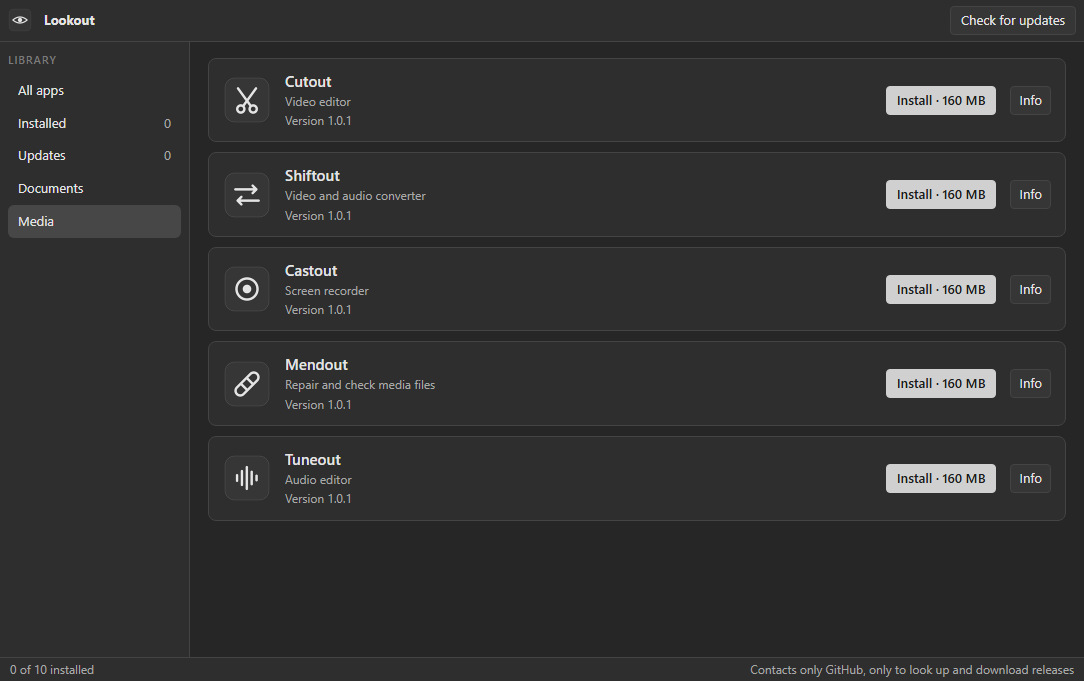
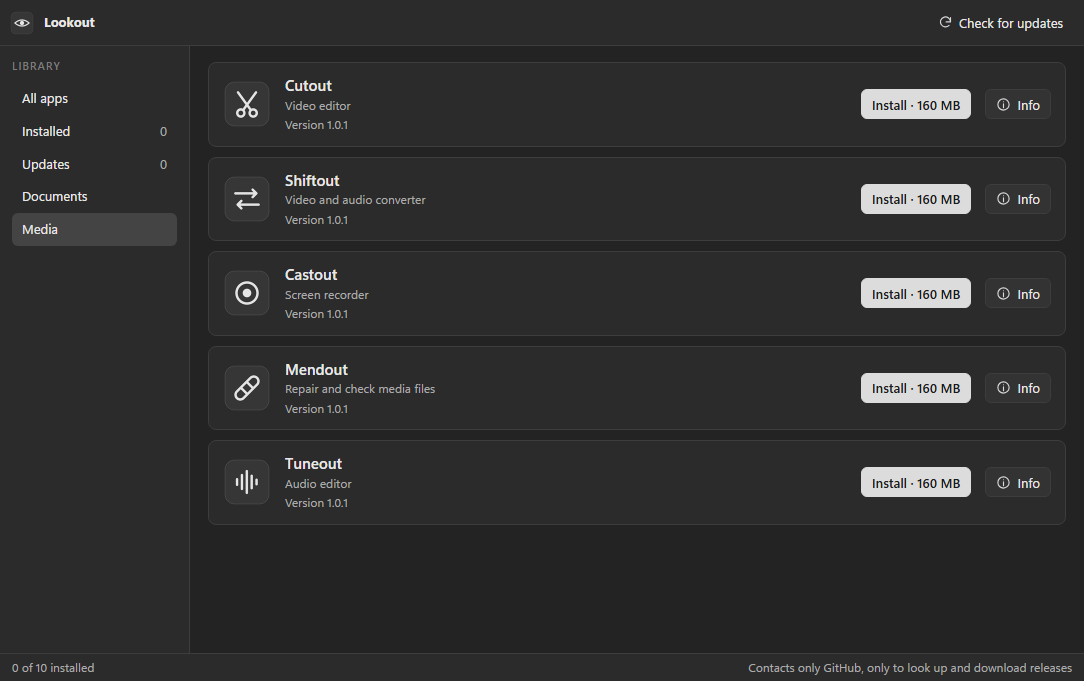
Lookout 1.0.1: refreshed interface
Refreshed interface: line icons on every toolbar button, the app mark in the top bar, consistent control sizes and spacing, tidier side panels, and a toolbar that adapts to smaller windows. Also includes layout fixes and a fuller guide on the project page.

diff --git a/renderer/lookout.css b/renderer/lookout.css
@@ -1,62 +1,119 @@
-/* Lookout gray UI kit: flat, no glow, no gradients, no hue. */
+/* Lookout gray UI kit v2: flat, calm, no hue. Shared by every Lookout app. */
 :root{
-  --bg:#262626; --bg-2:#2e2e2e; --bg-3:#363636; --line:#444; --line-2:#555;
-  --text:#e4e4e4; --text-2:#a8a8a8; --text-3:#7c7c7c;
-  --accent:#d0d0d0; --accent-ink:#1c1c1c; --focus:#9a9a9a;
-  --radius:4px; --font:"Segoe UI",system-ui,-apple-system,sans-serif; --mono:Consolas,"Cascadia Mono",monospace;
+  --bg:#232323; --bg-2:#2b2b2b; --bg-3:#333333; --bg-4:#3b3b3b; --stage:#1c1c1c;
+  --line:#3d3d3d; --line-2:#4d4d4d; --line-3:#5c5c5c;
+  --text:#e8e8e8; --text-2:#ababab; --text-3:#7d7d7d;
+  --accent:#dcdcdc; --accent-ink:#1b1b1b; --focus:#a0a0a0;
+  --radius:6px; --h:30px;
+  --font:"Segoe UI Variable Text","Segoe UI",system-ui,-apple-system,sans-serif; --mono:Consolas,"Cascadia Mono",monospace;
 }
 *{box-sizing:border-box;margin:0;padding:0}
 html,body{height:100%;background:var(--bg);color:var(--text);font:13px/1.45 var(--font);overflow:hidden;user-select:none;-webkit-font-smoothing:antialiased}
 button,input,select,textarea{font:inherit;color:inherit}
 .app{display:grid;grid-template-rows:auto 1fr auto;height:100vh}
-.toolbar{display:flex;align-items:center;gap:4px;padding:6px 8px;background:var(--bg-2);border-bottom:1px solid var(--line);flex-wrap:wrap}
-.toolbar .sep{width:1px;align-self:stretch;background:var(--line);margin:2px 6px}
-.toolbar .grow{flex:1}
-.btn{background:var(--bg-3);border:1px solid var(--line);border-radius:var(--radius);padding:4px 10px;cursor:pointer;white-space:nowrap}
-.btn:hover{background:#404040;border-color:var(--line-2)}
+
+/* ---------- toolbar ---------- */
+.toolbar{display:flex;align-items:center;gap:2px;padding:7px 10px;min-height:46px;background:var(--bg-2);border-bottom:1px solid var(--line);flex-wrap:nowrap;overflow-x:auto;overflow-y:hidden;scrollbar-width:none}
+.toolbar::-webkit-scrollbar{height:0}
+.toolbar>*{flex-shrink:0}
+.toolbar .sep{width:1px;height:20px;align-self:center;background:var(--line-2);margin:0 6px}
+.toolbar .grow{flex:1 1 auto;min-width:8px}
+.toolbar input[type=text],.toolbar input[type=search]{width:170px}
+.brand{display:flex;align-items:center;gap:8px;padding-right:6px;margin-right:4px;font-weight:600;font-size:13px;color:var(--text)}
+.brand img{width:24px;height:24px;border-radius:6px;display:block}
+.brand+.sep{margin-left:0}
+
+/* ---------- buttons ---------- */
+.btn{display:inline-flex;align-items:center;justify-content:center;gap:6px;height:var(--h);padding:0 10px;background:var(--bg-3);border:1px solid var(--line);border-radius:var(--radius);cursor:pointer;white-space:nowrap;line-height:1;transition:background .08s,border-color .08s}
+.btn:hover{background:var(--bg-4);border-color:var(--line-2)}
 .btn:active{background:#2a2a2a}
-.btn:focus-visible,input:focus-visible,select:focus-visible,textarea:focus-visible,[tabindex]:focus-visible{outline:1px solid var(--focus);outline-offset:1px}
+.btn:focus-visible,input:focus-visible,select:focus-visible,textarea:focus-visible,[tabindex]:focus-visible{outline:2px solid var(--focus);outline-offset:1px}
 .btn.primary{background:var(--accent);color:var(--accent-ink);border-color:var(--accent);font-weight:600}
-.btn.primary:hover{background:#e0e0e0}
-.btn.on{background:#4a4a4a;border-color:var(--line-2)}
-.btn[disabled]{opacity:.4;pointer-events:none}
-.btn.icon{padding:4px 8px;min-width:30px;text-align:center}
-input[type=text],input[type=number],input[type=search],select,textarea{background:var(--bg);border:1px solid var(--line);border-radius:var(--radius);padding:4px 8px;user-select:text}
-input[type=range]{accent-color:#bdbdbd}
-input[type=color]{border:1px solid var(--line);background:var(--bg);width:28px;height:24px;padding:1px;border-radius:var(--radius)}
-label.field{display:flex;flex-direction:column;gap:3px;color:var(--text-2);font-size:12px}
-.main{display:flex;min-height:0}
-.sidebar{width:220px;background:var(--bg-2);border-right:1px solid var(--line);overflow:auto;padding:8px;flex-shrink:0}
-.sidebar.right{border-right:0;border-left:1px solid var(--line);width:250px}
-.sidebar h3,.panel-title{font-size:11px;text-transform:uppercase;letter-spacing:.08em;color:var(--text-3);margin:10px 0 6px;font-weight:600}
+.btn.primary:hover{background:#ececec;border-color:#ececec}
+.btn.on{background:#4a4a4a;border-color:var(--line-3);box-shadow:inset 0 0 0 1px #6a6a6a}
+.btn[disabled]{opacity:.38;pointer-events:none}
+.btn.icon{padding:0;width:var(--h);min-width:var(--h)}
+.btn .ic{width:15px;height:15px;flex-shrink:0;display:block;opacity:.92}
+.toolbar .btn:not(.primary):not(.on){background:transparent;border-color:transparent}
+.toolbar .btn:not(.primary):not(.on):hover{background:var(--bg-4);border-color:var(--line-2)}
+
+.toolbar.c1 .btn.minor:not(.primary):has(> svg.ic),.toolbar.c2 .btn:not(.primary):has(> svg.ic),.toolbar.c3 .btn:has(> svg.ic){font-size:0;gap:0;width:var(--h);padding:0}
+.toolbar.c2 .brand span{display:none}
+.toolbar.c2 input[type=text],.toolbar.c2 input[type=search]{width:120px}
+
+/* ---------- fields ---------- */
+input[type=text],input[type=number],input[type=search],input[type=date],select,textarea{background:var(--bg);border:1px solid var(--line-2);border-radius:var(--radius);padding:0 9px;height:var(--h);user-select:text;min-width:0}
+textarea{height:auto;padding:7px 9px;resize:vertical;line-height:1.45}
+select{padding-right:6px;cursor:pointer}
+input:hover,select:hover,textarea:hover{border-color:var(--line-3)}
+input[type=range]{accent-color:#c8c8c8;height:var(--h)}
+input[type=checkbox]{accent-color:#c8c8c8;width:15px;height:15px;cursor:pointer}
+input[type=color]{border:1px solid var(--line-2);background:var(--bg);width:30px;height:var(--h);padding:2px;border-radius:var(--radius)}
+label.field{display:flex;flex-direction:column;gap:4px;color:var(--text-2);font-size:12px}
+label.field>input,label.field>select,label.field>textarea{width:100%;color:var(--text);font-size:13px}
+
+/* ---------- layout ---------- */
+.main{display:flex;min-height:0;min-width:0}
+.sidebar{width:228px;background:var(--bg-2);border-right:1px solid var(--line);overflow:auto;padding:10px 12px 14px;flex-shrink:0}
+.sidebar.right{border-right:0;border-left:1px solid var(--line);width:272px}
+.sidebar h3,.panel-title{font-size:11px;text-transform:uppercase;letter-spacing:.08em;color:var(--text-3);margin:16px 0 8px;font-weight:600}
 .sidebar h3:first-child{margin-top:2px}
-.stage{flex:1;min-width:0;min-height:0;position:relative;background:#1f1f1f;overflow:auto}
-.status{display:flex;gap:16px;align-items:center;padding:3px 10px;background:var(--bg-2);border-top:1px solid var(--line);color:var(--text-2);font-size:12px}
+.sidebar input[type=text],.sidebar input[type=search],.sidebar select,.sidebar textarea{width:100%}
+.sidebar .row{flex-wrap:wrap}
+.sidebar .row>.btn{flex:1 1 auto}
+.sidebar .row>label.field{flex:1 1 0;min-width:0}
+.sidebar label.field{margin-bottom:10px}
+.sidebar .btn{width:auto}
+.sidebar>.btn{width:100%;margin-bottom:6px}
+.stage{flex:1;min-width:0;min-height:0;position:relative;background:var(--stage);overflow:auto}
+.status{display:flex;gap:18px;align-items:center;height:28px;padding:0 12px;background:var(--bg-2);border-top:1px solid var(--line);color:var(--text-2);font-size:12px;white-space:nowrap;overflow:hidden}
 .status .grow{flex:1}
 .list{display:flex;flex-direction:column;gap:2px}
-.list .item{padding:5px 8px;border-radius:var(--radius);cursor:pointer;border:1px solid transparent;display:flex;gap:6px;align-items:center}
+.list .item{padding:6px 8px;border-radius:var(--radius);cursor:pointer;border:1px solid transparent;display:flex;gap:6px;align-items:center;min-height:30px}
 .list .item:hover{background:var(--bg-3)}
-.list .item.sel{background:#444;border-color:var(--line-2)}
+.list .item.sel{background:var(--bg-4);border-color:var(--line-2)}
 .row{display:flex;gap:6px;align-items:center}
+.grow{flex:1 1 auto;min-width:0}
+.brow{display:grid;grid-template-columns:1fr 1fr;gap:6px;margin-bottom:6px}
+.brow>.btn{justify-content:flex-start}
+.frow{display:flex;align-items:center;gap:8px;margin-bottom:8px;color:var(--text-2)}
+.frow>input[type=text],.frow>input[type=number]{flex:1;color:var(--text)}
+.frow>span:first-child{min-width:44px}
+.frow>select{flex:1;min-width:0}
+.sidebar input[type=range]{width:100%}
+.sidebar .swatches{margin-bottom:10px}
+.list .item .btn{height:24px!important;width:26px!important;padding:0!important;font-size:0!important;gap:0;background:transparent;border-color:transparent;opacity:.55}
+.list .item:hover .btn,.list .item.sel .btn{opacity:1}
+.list .item .btn:hover{background:var(--bg-4);border-color:var(--line-2)}
 .col{display:flex;flex-direction:column;gap:6px}
 .muted{color:var(--text-2)}
-.empty{position:absolute;inset:0;display:flex;flex-direction:column;align-items:center;justify-content:center;gap:10px;color:var(--text-3);text-align:center;padding:20px}
-.empty .big{font-size:18px;color:var(--text-2)}
-.modal-back{position:fixed;inset:0;background:rgba(0,0,0,.55);display:flex;align-items:center;justify-content:center;z-index:50}
-.modal{background:var(--bg-2);border:1px solid var(--line-2);border-radius:6px;min-width:340px;max-width:80vw;max-height:85vh;overflow:auto;padding:16px;display:flex;flex-direction:column;gap:12px}
-.modal h2{font-size:15px;font-weight:600}
-.toast{position:fixed;left:50%;bottom:34px;transform:translateX(-50%);background:var(--bg-3);border:1px solid var(--line-2);padding:7px 14px;border-radius:var(--radius);z-index:60}
-.progress{height:6px;background:var(--bg);border:1px solid var(--line);border-radius:3px;overflow:hidden}
-.progress>i{display:block;height:100%;background:var(--accent);width:0}
-table.grid{border-collapse:collapse;width:100%}
-table.grid th,table.grid td{border:1px solid var(--line);padding:4px 8px;text-align:left}
-table.grid th{background:var(--bg-2);color:var(--text-2);font-weight:600}
-::-webkit-scrollbar{width:11px;height:11px}
-::-webkit-scrollbar-thumb{background:#4a4a4a;border:2px solid var(--bg);border-radius:6px}
-::-webkit-scrollbar-track{background:var(--bg)}
-.swatches{display:flex;flex-wrap:wrap;gap:4px}
-.swatches button{width:22px;height:22px;border:1px solid var(--line-2);border-radius:3px;cursor:pointer;padding:0}
-.swatches button.on{outline:2px solid var(--accent);outline-offset:1px}
-.progress>div{display:block;height:100%;background:var(--accent)}
-table.grid tr.sel td{background:#3a3a3a}
+.empty{position:absolute;inset:0;display:flex;flex-direction:column;align-items:center;justify-content:center;gap:12px;color:var(--text-3);text-align:center;padding:24px}
+.empty .big{font-size:18px;color:var(--text-2);font-weight:600}
+
+/* ---------- overlays ---------- */
+.modal-back{position:fixed;inset:0;background:rgba(0,0,0,.6);display:flex;align-items:center;justify-content:center;z-index:50}
+.modal{background:var(--bg-2);border:1px solid var(--line-2);border-radius:10px;min-width:360px;max-width:80vw;max-height:85vh;overflow:auto;padding:20px;display:flex;flex-direction:column;gap:14px;box-shadow:0 18px 50px rgba(0,0,0,.5)}
+.modal h2{font-size:16px;font-weight:600}
+.toast{position:fixed;left:50%;bottom:40px;transform:translateX(-50%);background:var(--bg-4);border:1px solid var(--line-3);padding:9px 16px;border-radius:8px;z-index:60;box-shadow:0 8px 24px rgba(0,0,0,.4)}
+.progress{height:6px;background:var(--bg);border:1px solid var(--line);border-radius:4px;overflow:hidden}
+.progress>i,.progress>div{display:block;height:100%;background:var(--accent);width:0}
+
+/* ---------- tables ---------- */
+table.grid{border-collapse:separate;border-spacing:0;width:100%}
+table.grid th,table.grid td{border-bottom:1px solid var(--line);padding:0 12px;height:38px;text-align:left;vertical-align:middle}
+table.grid th{background:var(--bg-2);color:var(--text-2);font-weight:600;font-size:12px;position:sticky;top:0;z-index:1;height:34px}
+table.grid tbody tr:hover td{background:#262626}
+table.grid tr.sel td{background:#353535}
 table.grid tbody tr{cursor:default}
+table.grid td .btn{height:26px;margin-left:8px;vertical-align:middle}
+table.grid td{white-space:nowrap}
+
+/* ---------- misc ---------- */
+::-webkit-scrollbar{width:11px;height:11px}
+::-webkit-scrollbar-thumb{background:#474747;border:3px solid transparent;background-clip:padding-box;border-radius:8px}
+::-webkit-scrollbar-thumb:hover{background:#5a5a5a;background-clip:padding-box;border:3px solid transparent}
+::-webkit-scrollbar-track,::-webkit-scrollbar-corner{background:transparent}
+.swatches{display:flex;flex-wrap:wrap;gap:6px}
+.swatches button{width:24px;height:24px;border:1px solid var(--line-3);border-radius:5px;cursor:pointer;padding:0}
+.swatches button.on{outline:2px solid var(--accent);outline-offset:2px}
+kbd{font-family:var(--mono);font-size:11px;background:var(--bg-3);border:1px solid var(--line-2);border-bottom-width:2px;border-radius:4px;padding:0 5px}

diff --git a/renderer/kit.js b/renderer/kit.js
@@ -1,0 +1,137 @@
+// Lookout UI kit: adds the app mark to the toolbar and monochrome line icons to buttons.
+// Purely visual. Buttons keep their text, so nothing else changes.
+(function () {
+  'use strict';
+  const NS = 'http://www.w3.org/2000/svg';
+  const P = {
+    plus: 'M12 5v14M5 12h14',
+    file: 'M14 3H6v18h12V7zM14 3v4h4M12 11v6M9 14h6',
+    folder: 'M3 7V5h6l2 2h10v12H3z',
+    save: 'M5 3h11l3 3v15H5zM8 3v5h7V3M8 21v-7h8v7',
+    saveas: 'M5 3h11l3 3v6M5 3v18h7M8 3v5h7V3M15 21l6-6-2-2-6 6v2z',
+    undo: 'M9 14L4 9l5-5M4 9h10a6 6 0 010 12h-3',
+    redo: 'M15 14l5-5-5-5M20 9H10a6 6 0 000 12h3',
+    trash: 'M4 7h16M10 11v6M14 11v6M6 7l1 14h10l1-14M9 7V4h6v3',
+    copy: 'M9 9h11v11H9zM5 15H4V4h11v1',
+    paste: 'M9 4h6v3H9zM8 5H5v16h14V5h-3',
+    dup: 'M8 8h12v12H8zM4 16V4h12M14 11v6M11 14h6',
+    download: 'M12 4v11M7 10l5 5 5-5M5 20h14',
+    fit: 'M4 9V4h5M15 4h5v5M20 15v5h-5M9 20H4v-5',
+    play: 'M7 4l13 8-13 8z',
+    stop: 'M6 6h12v12H6z',
+    pause: 'M7 5h3v14H7zM14 5h3v14h-3z',
+    rec: 'M12 5a7 7 0 100 14 7 7 0 000-14z',
+    scissors: 'M6 9a3 3 0 100-6 3 3 0 000 6zM6 21a3 3 0 100-6 3 3 0 000 6zM8.2 7.8L20 19M8.2 16.2L20 5',
+    pointer: 'M5 3l14 7-6 2-2 6z',
+    hand: 'M8 13V6a1.5 1.5 0 013 0v5M11 11V4.5a1.5 1.5 0 013 0V11M14 11V6a1.5 1.5 0 013 0v8a7 7 0 01-7 7 6 6 0 01-5-3l-2.5-4.5a1.5 1.5 0 012.6-1.5L8 15',
+    connector: 'M5 19L19 5M13 5h6v6',
+    frame: 'M7 3v18M17 3v18M3 7h18M3 17h18',
+    rect: 'M4 6h16v12H4z',
+    ellipse: 'M12 5c4.4 0 8 3.1 8 7s-3.6 7-8 7-8-3.1-8-7 3.6-7 8-7z',
+    line: 'M5 19L19 5',
+    text: 'M5 6V4h14v2M12 4v16M9 20h6',
+    highlight: 'M14 4l6 6-8 8H6v-6zM4 21h16',
+    pen: 'M4 20l4-1 11-11-3-3L5 16zM14 7l3 3',
+    redact: 'M4 8h16v8H4z',
+    sign: 'M3 17c3-6 5-9 7-9 3 0-2 9 1 9 2 0 3-3 5-3s1 3 5 3M3 21h18',
+    eraser: 'M8 20l-4-4 10-10 6 6-10 8zM12 20h8',
+    search: 'M11 4a7 7 0 100 14 7 7 0 000-14zM16 16l5 5',
+    list: 'M9 6h11M9 12h11M9 18h11M4 6h.01M4 12h.01M4 18h.01',
+    child: 'M5 4v8a3 3 0 003 3h11M15 11l4 4-4 4',
+    sibling: 'M5 6h14M5 12h14M12 15v6M9 18h6',
+    collapse: 'M6 9l6 6 6-6',
+    expand: 'M7 14l5-5 5 5',
+    calendar: 'M4 6h16v14H4zM4 10h16M8 3v5M16 3v5',
+    diamond: 'M12 3l9 9-9 9-9-9z',
+    up: 'M12 19V5M6 11l6-6 6 6',
+    down: 'M12 5v14M6 13l6 6 6-6',
+    refresh: 'M20 11a8 8 0 10-2.3 5.7M20 4v7h-7',
+    check: 'M4 12l5 5L20 6',
+    convert: 'M4 8h13M13 4l4 4-4 4M20 16H7M11 12l-4 4 4 4',
+    eye: 'M2 12s4-7 10-7 10 7 10 7-4 7-10 7S2 12 2 12zM12 9a3 3 0 100 6 3 3 0 000-6z',
+    info: 'M12 3a9 9 0 100 18 9 9 0 000-18zM12 11v6M12 7.5h.01',
+    front: 'M8 8h12v12H8zM4 4h10v3M4 4v10h3',
+    back: 'M4 4h12v12H4zM20 8v12H8v-4',
+    merge: 'M6 3v6a6 6 0 006 6h6M15 12l3 3-3 3M6 21v-4',
+    rotl: 'M4 10a8 8 0 112 6M4 4v6h6',
+    rotr: 'M20 10a8 8 0 10-2 6M20 4v6h-6',
+    blank: 'M6 3h12v18H6z',
+    extract: 'M14 3H6v18h12V7zM14 3v4h4M12 10v7M9 14l3 3 3-3',
+    mic: 'M12 3a3 3 0 00-3 3v6a3 3 0 006 0V6a3 3 0 00-3-3zM6 11a6 6 0 0012 0M12 17v4',
+    clear: 'M6 6l12 12M18 6L6 18',
+    gaps: 'M3 6v12M21 6v12M7 12h10M10 9l-3 3 3 3M14 9l3 3-3 3',
+    title: 'M4 5h16v14H4zM8 9h8M12 9v7',
+    dashed: 'M4 12h3M10 12h4M17 12h3',
+    arrow: 'M4 12h15M14 7l5 5-5 5',
+    elbow: 'M4 6h8v12h8',
+    label: 'M3 12l6-7h12v14H9zM8 12h.01',
+    image: 'M4 5h16v14H4zM4 16l5-5 4 4 3-3 4 4M15 9h.01',
+    vector: 'M5 19L12 5l7 14M8 13h8M3 19h4M17 19h4',
+    table: 'M4 5h16v14H4zM4 10h16M4 15h16M10 5v14',
+    lock: 'M6 11h12v9H6zM8 11V8a4 4 0 018 0v3',
+    unlock: 'M6 11h12v9H6zM8 11V8a4 4 0 017.5-2',
+    eyeoff: 'M3 3l18 18M10.6 6.1A10 10 0 0112 6c6 0 10 6 10 6a17 17 0 01-3 3.6M6.6 6.6C3.8 8.3 2 12 2 12s4 7 10 7a9.7 9.7 0 004.4-1',
+  };
+  const MAP = {
+    'New': 'file', 'Open': 'folder', 'Open project': 'folder', 'Open file': 'folder', 'Save': 'save', 'Save project': 'save', 'Save as': 'saveas',
+    'Undo': 'undo', 'Redo': 'redo', 'Delete': 'trash', 'Delete clip': 'trash', 'Remove selected': 'trash', 'Copy': 'copy', 'Paste': 'paste', 'Duplicate': 'dup',
+    'Export PNG': 'image', 'Export SVG': 'vector', 'Export CSV': 'table', 'Export': 'download', 'Export page as PNG': 'download', 'Extract all text': 'text',
+    'Fit': 'fit', 'Play': 'play', 'Stop': 'stop', 'Pause': 'pause', 'Resume': 'play', 'Record': 'rec', 'Split': 'scissors', 'Split here': 'scissors',
+    'Select': 'pointer', 'Move': 'pointer', 'Hand': 'hand', 'Connector': 'connector', 'Frame': 'frame', 'Rectangle': 'rect', 'Box': 'rect', 'Ellipse': 'ellipse', 'Line': 'line', 'Text': 'text',
+    'Highlight': 'highlight', 'Pen': 'pen', 'Redact': 'redact', 'Sign': 'sign', 'Erase': 'eraser', 'Preview': 'eye', 'Outline': 'list',
+    'Add child': 'child', 'Add sibling': 'sibling', 'Edit': 'pen', 'Collapse': 'collapse', 'Expand all': 'expand', 'Today': 'calendar',
+    'Add task': 'plus', 'Add milestone': 'diamond', 'Move up': 'up', 'Move down': 'down', 'Up': 'up', 'Down': 'down',
+    'Import media': 'plus', 'Add files': 'plus', 'Output folder': 'folder', 'Convert all': 'convert', 'Clear finished': 'clear', 'Show': 'folder', 'Show in folder': 'folder',
+    'Check file': 'check', 'Repair to new file': 'download', 'Refresh sources': 'refresh', 'Start recording': 'rec', 'Stop and review': 'stop', 'New recording': 'rec',
+    'Check for updates': 'refresh', 'Info': 'info', 'Merge': 'merge', 'Rotate L': 'rotl', 'Rotate R': 'rotr', 'Blank': 'blank', 'Extract': 'extract',
+    'Front': 'front', 'Back': 'back', 'Close gaps': 'gaps', 'Title text': 'title', 'Dashed': 'dashed', 'Arrow on/off': 'arrow', 'Straight / Elbow': 'elbow', 'Edit label': 'label',
+    'Cut': 'scissors', 'Trim to selection': 'fit', 'Locate missing files': 'search',
+  };
+  const LMAP = { 'Hide': 'eye', 'Show': 'eyeoff', 'Lock': 'unlock', 'Unlock': 'lock' };
+  function icon(name) {
+    const s = document.createElementNS(NS, 'svg');
+    s.setAttribute('viewBox', '0 0 24 24'); s.setAttribute('class', 'ic'); s.setAttribute('aria-hidden', 'true');
+    s.setAttribute('fill', 'none'); s.setAttribute('stroke', 'currentColor'); s.setAttribute('stroke-width', '1.8');
+    s.setAttribute('stroke-linecap', 'round'); s.setAttribute('stroke-linejoin', 'round');
+    const p = document.createElementNS(NS, 'path'); p.setAttribute('d', P[name]); s.append(p);
+    return s;
+  }
+  function decorate(b) {
+    if (b.tagName !== 'BUTTON' || !b.classList.contains('btn')) return;
+    const label = (b.textContent || '').trim();
+    const name = (b.closest('.list') && LMAP[label]) || MAP[label];
+    const cur = b.querySelector(':scope > svg.ic');
+    if (cur && cur.dataset.for === label) return;
+    if (cur) cur.remove();
+    if (!name) return;
+    const s = icon(name); s.dataset.for = label; b.prepend(s);
+    if (!b.title) b.title = label;
+  }
+  function brand(bar) {
+    if (!bar || bar.querySelector(':scope > .brand') || (document.title && (bar.textContent || '').includes(document.title))) return;
+    const name = document.title || '';
+    const d = document.createElement('div'); d.className = 'brand';
+    const img = document.createElement('img'); img.src = 'brand.svg'; img.alt = '';
+    const t = document.createElement('span'); t.textContent = name;
+    d.append(img, t);
+    const sep = document.createElement('span'); sep.className = 'sep';
+    bar.prepend(d, sep);
+  }
+  const MINOR = new Set(['New', 'Open', 'Undo', 'Redo', 'Copy', 'Paste', 'Duplicate', 'Delete', 'Front', 'Back', 'Fit', 'Hand', 'Merge', 'Move up', 'Move down', 'Today', 'Cut', 'Dashed', 'Arrow on/off', 'Straight / Elbow', 'Edit label', 'Output folder', 'Remove selected', 'Clear finished', 'Refresh sources', 'Stop', 'Collapse', 'Expand all', 'Select', 'Move']);
+  function fitBar(bar) {
+    bar.classList.remove('c1', 'c2', 'c3');
+    bar.querySelectorAll(':scope > .btn').forEach((b) => b.classList.toggle('minor', MINOR.has((b.textContent || '').trim())));
+    for (const c of ['c1', 'c2', 'c3']) { if (bar.scrollWidth <= bar.clientWidth + 1) break; bar.classList.add(c); }
+  }
+  window.addEventListener('resize', () => { const bar = document.querySelector('.app > .toolbar'); if (bar) fitBar(bar); });
+  let queued = false;
+  function sweep() {
+    queued = false;
+    document.querySelectorAll('.btn').forEach(decorate);
+    const bar = document.querySelector('.app > .toolbar');
+    if (bar && bar.children.length) { brand(bar); fitBar(bar); }
+  }
+  const mo = new MutationObserver(() => { if (!queued) { queued = true; requestAnimationFrame(sweep); } });
+  function start() { mo.observe(document.body, { childList: true, subtree: true, characterData: true }); sweep(); }
+  if (document.readyState === 'loading') document.addEventListener('DOMContentLoaded', start); else start();
+})();

diff --git a/renderer/app.js b/renderer/app.js
@@ -54,7 +54,7 @@ function row(a) {
     h('img', { src: 'icons/' + a.id + '.png', width: 48, height: 48, alt: '' }),
     h('div', { style: 'flex:1;min-width:0' }, h('div', { style: 'font-size:15px;font-weight:600', text: a.name }), h('div', { class: 'muted', style: 'font-size:12px', text: a.what }), h('div', { class: 'muted', style: 'font-size:12px;margin-top:2px', text: ver })),
     right,
-    h('button', { class: 'btn icon', title: 'View on GitHub', onclick: () => window.host.repo(a.id), text: 'Info' }));
+    h('button', { class: 'btn', title: 'View on GitHub', onclick: () => window.host.repo(a.id), text: 'Info' }));
 }
 function render() {
   toolbar.textContent = '';

diff --git a/renderer/index.html b/renderer/index.html
@@ -10,6 +10,7 @@
 </head>
 <body>
 <div class="app" id="app"></div>
+<script src="kit.js"></script>
 <script src="app.js"></script>
 </body>
 </html>

diff --git a/README.md b/README.md
@@ -1,6 +1,6 @@
 <p align="center"><img src="screenshots/banner.png" alt="Lookout" width="100%"></p>
 
-<p align="center"><b>Install and update your apps</b><br>Version 1.0.0 for Windows · Free · No account</p>
+<p align="center"><b>Install and update your apps</b><br>Version 1.0.1 for Windows · Free · No account</p>
 
 <p align="center"><a href="https://github.com/plawanpawin-byte/lookout-launcher/releases/latest"><b>Download Lookout</b></a> · <a href="https://github.com/plawanpawin-byte/Lookout">All Lookout apps</a></p>
 
